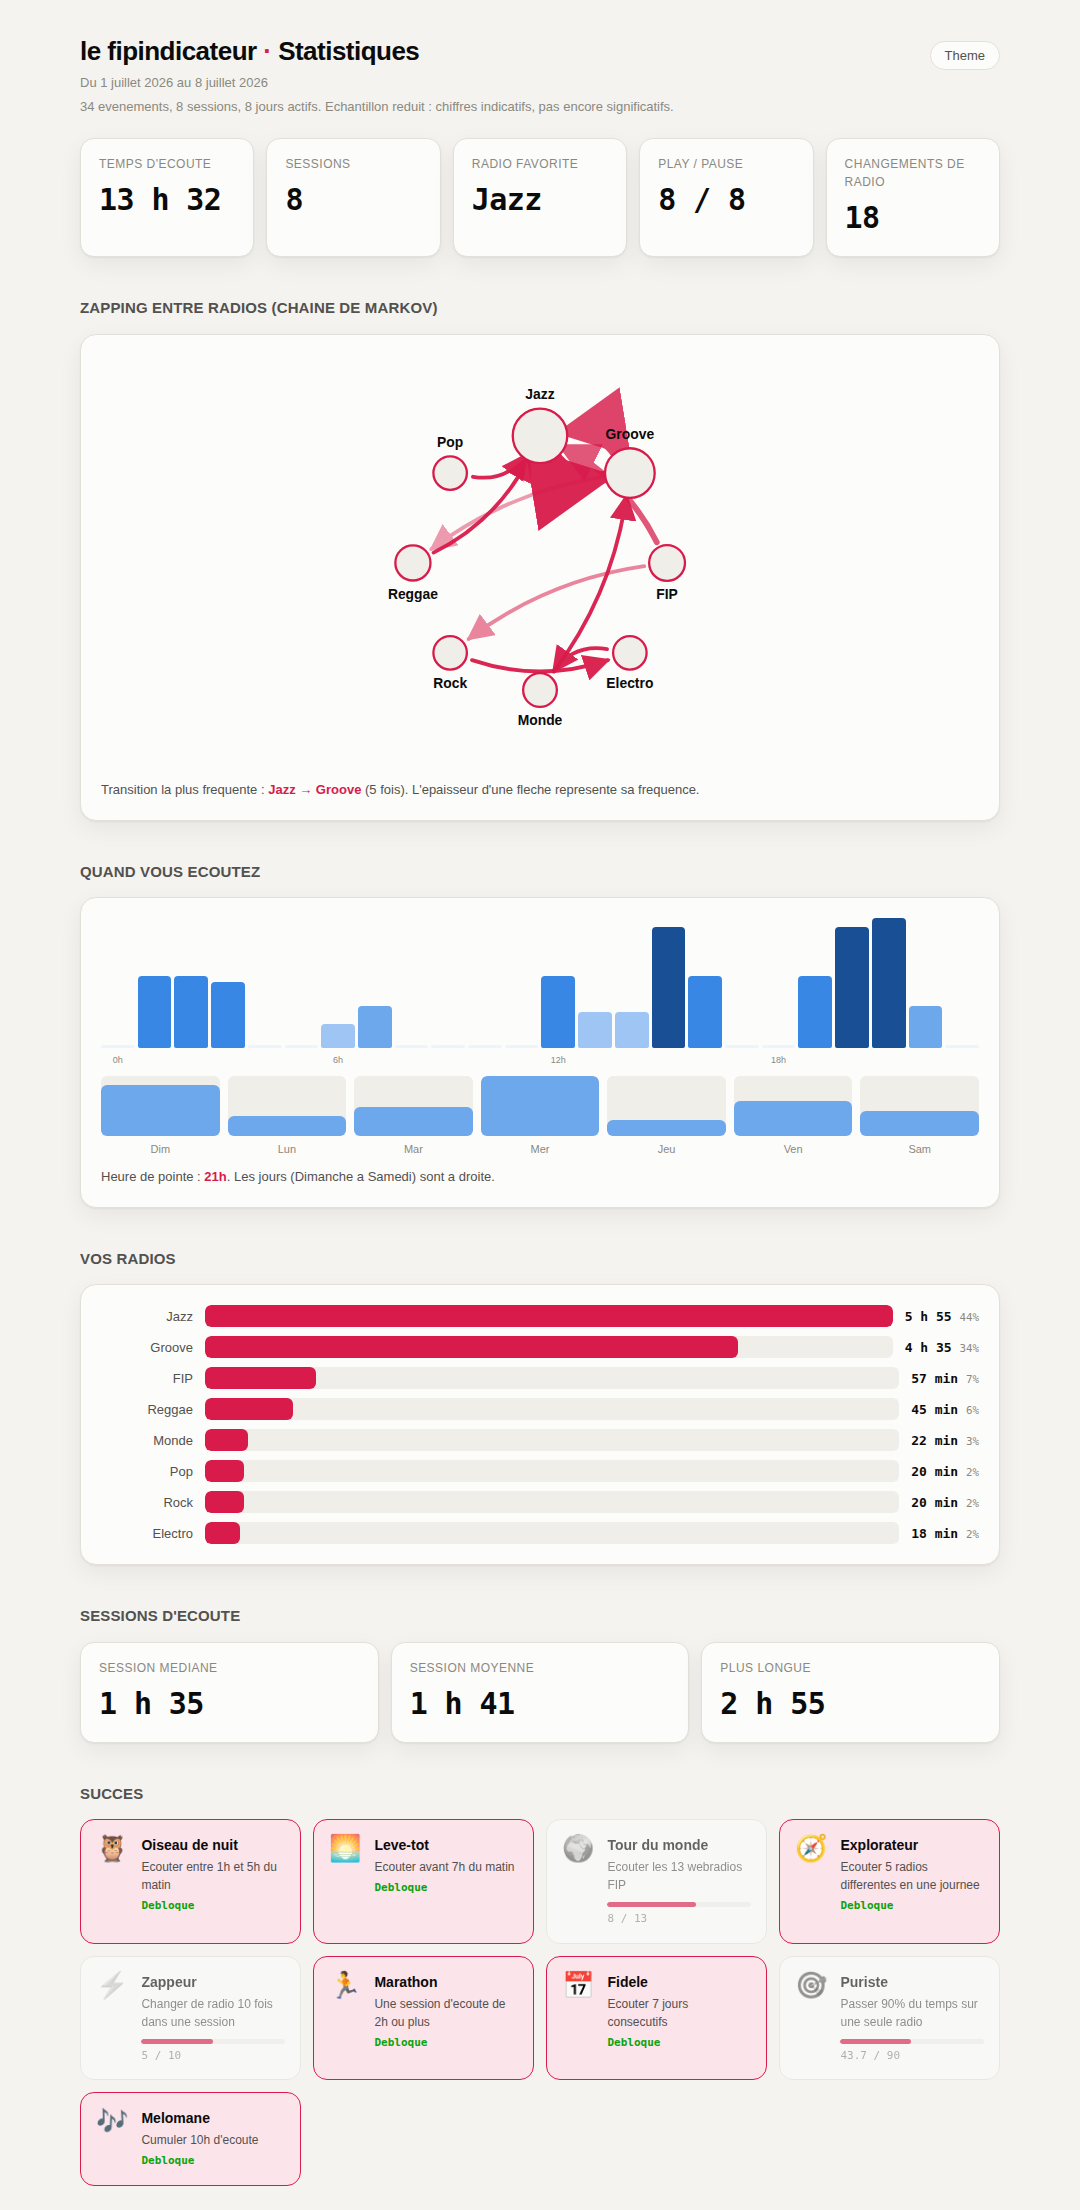
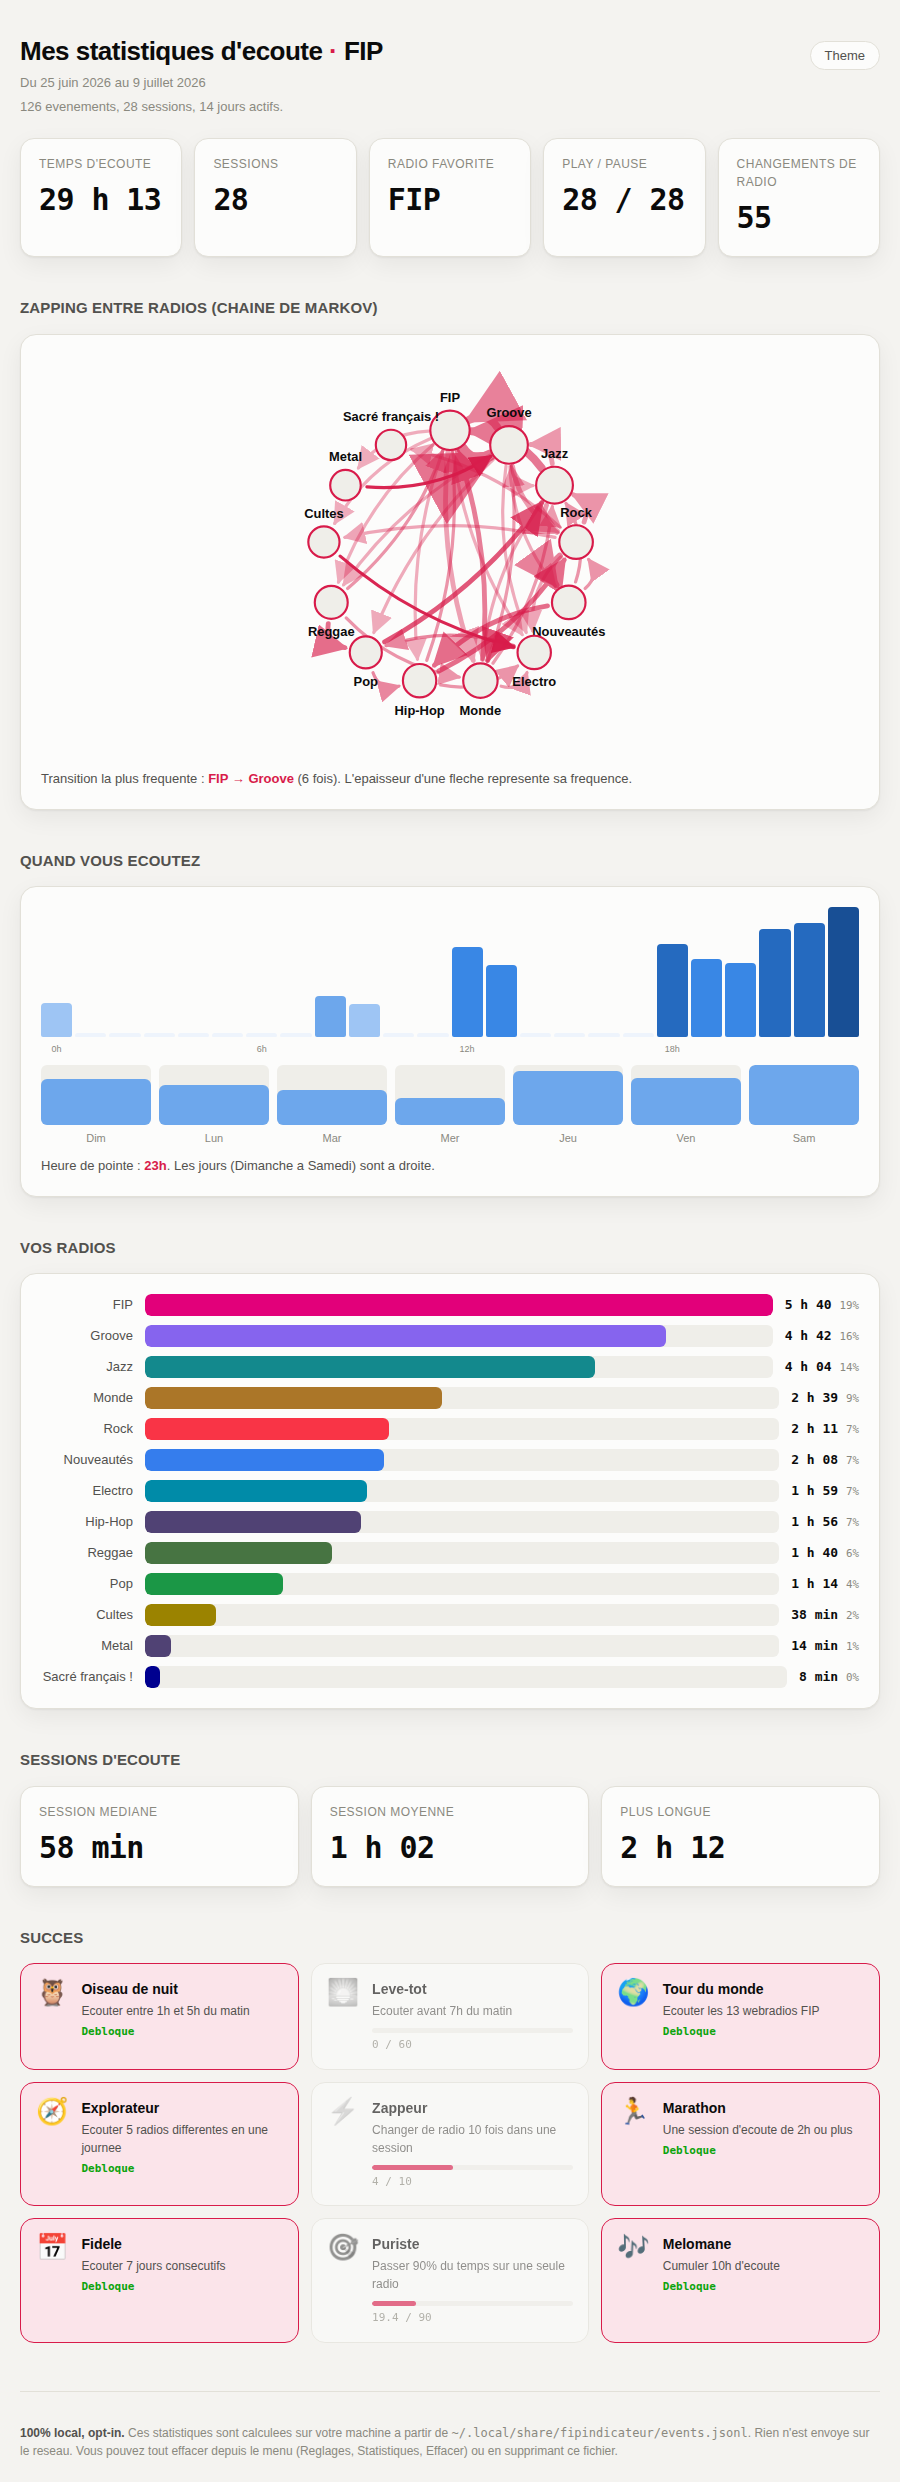
docs: README color showcase with pixel-honest transition GIF
Les couleurs de FIP: a Rock to Jazz crossfade GIF rendered from the
real icon code (72 frames, 6 fps, the exact smoothstep/16-step math),
the 13-station tint strip, and a stats report screenshot regenerated
from synthetic data only. Also fixes a stray em dash in CHANGELOG.

diff --git a/docs/gen_tint_gif.go b/docs/gen_tint_gif.go
@@ -1,0 +1,276 @@
+//go:build ignore
+
+// Command gen_tint_gif renders the tray VU glyph's station-color crossfade to
+// an animated GIF, and a strip of every station's legible tint to a PNG, using
+// the app's real icon code (internal/icon, internal/vu). Pixel-honest: no
+// screen capture, every frame is the exact bitmap the tray would draw.
+//
+// Run:  go run docs/gen_tint_gif.go
+// Writes docs/tint-transition.gif and docs/station-colors.png.
+//
+// The GIF mirrors internal/ui/animator.go exactly: a ~1s hold on Rock, the 10s
+// crossfade at 6 fps with smoothstep easing quantized to 16 steps, a ~1s hold
+// on Jazz, looping forever. The 4 VU bars move to a deterministic sum-of-sines
+// pattern (no math/rand), quantized to the 12 height levels.
+package main
+
+import (
+	"bytes"
+	"image"
+	"image/color"
+	"image/gif"
+	"image/png"
+	"log"
+	"math"
+	"os"
+	"path/filepath"
+
+	"github.com/PLNech/fipindicateur/internal/icon"
+	"github.com/PLNech/fipindicateur/internal/stations"
+	"github.com/PLNech/fipindicateur/internal/vu"
+)
+
+// These mirror internal/ui/animator.go so the doc GIF matches what ships.
+const (
+	animFPS      = 6
+	tintSteps    = 16
+	crossfadeSec = 10
+	holdSec      = 1
+)
+
+// Render geometry: the 44px glyph on a dark panel with padding, upscaled 4x
+// nearest-neighbour so it reads at README size.
+const (
+	base  = 44 // matches icon.barsSize
+	pad   = 4  // dark-panel padding around the glyph, in base pixels
+	scale = 4  // nearest-neighbour upscale factor
+)
+
+var panelBG = color.NRGBA{0x26, 0x26, 0x26, 0xFF} // matches icon.panelSurfaceDark
+
+func main() {
+	if err := writeGIF(outPath("tint-transition.gif")); err != nil {
+		log.Fatalf("tint-transition.gif: %v", err)
+	}
+	if err := writeStrip(outPath("station-colors.png")); err != nil {
+		log.Fatalf("station-colors.png: %v", err)
+	}
+}
+
+// outPath resolves a docs/ output path whether run from the repo root or from
+// within docs/.
+func outPath(name string) string {
+	if _, err := os.Stat("docs"); err == nil {
+		return filepath.Join("docs", name)
+	}
+	return name
+}
+
+// smoothstep eases 0..1 with a symmetric ease-in-out (mirrors animator.go).
+func smoothstep(t float64) float64 {
+	if t <= 0 {
+		return 0
+	}
+	if t >= 1 {
+		return 1
+	}
+	return t * t * (3 - 2*t)
+}
+
+// quantizedTintColor is the crossfade tint for progress t in 0..1, snapped to
+// one of tintSteps discrete positions, exactly as animator.quantizedTint does.
+func quantizedTintColor(from, to color.NRGBA, t float64) color.NRGBA {
+	if t < 0 {
+		t = 0
+	}
+	if t > 1 {
+		t = 1
+	}
+	step := math.Round(t * float64(tintSteps-1))
+	qt := step / float64(tintSteps-1)
+	return icon.Lerp(from, to, smoothstep(qt))
+}
+
+// barsAt derives a deterministic, music-like 4-bar pose for a global frame
+// index: sums of sines mapped into 0..vu.MaxHeight. No randomness so the GIF is
+// byte-reproducible.
+func barsAt(frame int) vu.Heights {
+	var h vu.Heights
+	f := float64(frame)
+	for i := 0; i < vu.Bars; i++ {
+		phase := float64(i) * 1.1
+		s := 0.5 + 0.45*math.Sin(0.55*f+phase)
+		s *= 0.65 + 0.35*(0.5+0.5*math.Sin(0.21*f+phase*1.7))
+		s += 0.12 * math.Sin(1.27*f+phase*0.5)
+		switch {
+		case s < 0:
+			s = 0
+		case s > 1:
+			s = 1
+		}
+		q := int(math.Round(s * float64(vu.MaxHeight)))
+		if q > vu.MaxHeight {
+			q = vu.MaxHeight
+		}
+		h[i] = uint8(q)
+	}
+	return h
+}
+
+// decodeBars renders the glyph via the real icon code and decodes it to NRGBA.
+// A non-zero tint makes every bar pixel exactly that tint at full alpha, so we
+// can read shape from alpha and paint the frame's own quantized tint.
+func decodeBars(h vu.Heights, tint color.NRGBA) *image.NRGBA {
+	img, err := png.Decode(bytes.NewReader(icon.BarsIcon(h, tint)))
+	if err != nil {
+		log.Fatalf("decode bars: %v", err)
+	}
+	if nr, ok := img.(*image.NRGBA); ok {
+		return nr
+	}
+	b := img.Bounds()
+	out := image.NewNRGBA(b)
+	for y := b.Min.Y; y < b.Max.Y; y++ {
+		for x := b.Min.X; x < b.Max.X; x++ {
+			out.Set(x, y, img.At(x, y))
+		}
+	}
+	return out
+}
+
+// writeGIF renders the hold/crossfade/hold sequence and encodes a looping GIF.
+func writeGIF(path string) error {
+	rock := icon.Legible("#f93446", true) // Rock brand ink, made legible on dark
+	jazz := icon.Legible("#13898d", true) // Jazz brand ink, made legible on dark
+
+	// Shared palette: index 0 is the panel background, then one entry per
+	// quantized crossfade step (so every frame's ink is an exact palette match).
+	pal := color.Palette{panelBG}
+	stepColor := make([]color.NRGBA, tintSteps)
+	for step := 0; step < tintSteps; step++ {
+		qt := float64(step) / float64(tintSteps-1)
+		c := icon.Lerp(rock, jazz, smoothstep(qt))
+		stepColor[step] = c
+		pal = append(pal, c)
+	}
+	stepIndex := func(step int) uint8 { return uint8(1 + step) } // palette index
+
+	holdFrames := holdSec * animFPS
+	crossFrames := crossfadeSec * animFPS
+
+	g := &gif.GIF{LoopCount: 0} // 0 == loop forever
+	frame := 0
+	add := func(step int) {
+		p := composite(decodeBars(barsAt(frame), stepColor[step]), stepIndex(step), pal)
+		g.Image = append(g.Image, p)
+		g.Delay = append(g.Delay, 100/animFPS) // centiseconds per frame
+		g.Disposal = append(g.Disposal, gif.DisposalNone)
+		frame++
+	}
+
+	for i := 0; i < holdFrames; i++ { // hold on Rock (step 0)
+		add(0)
+	}
+	for i := 0; i < crossFrames; i++ { // 10s crossfade, quantized progress
+		t := float64(i) / float64(crossFrames)
+		step := int(math.Round(t * float64(tintSteps-1)))
+		add(step)
+	}
+	for i := 0; i < holdFrames; i++ { // hold on Jazz (last step)
+		add(tintSteps - 1)
+	}
+
+	f, err := os.Create(path)
+	if err != nil {
+		return err
+	}
+	defer f.Close()
+	if err := gif.EncodeAll(f, g); err != nil {
+		return err
+	}
+	log.Printf("wrote %s (%d frames)", path, len(g.Image))
+	return nil
+}
+
+// composite paints one glyph frame onto the padded, upscaled paletted canvas:
+// background everywhere, ink pixels (alpha > 0) become inkIdx.
+func composite(bars *image.NRGBA, inkIdx uint8, pal color.Palette) *image.Paletted {
+	canvas := base + 2*pad
+	out := image.NewPaletted(image.Rect(0, 0, canvas*scale, canvas*scale), pal)
+	// out is zero-filled == palette index 0 == panel background.
+	for by := 0; by < base; by++ {
+		for bx := 0; bx < base; bx++ {
+			if bars.NRGBAAt(bx, by).A == 0 {
+				continue
+			}
+			blit(out, (pad+bx)*scale, (pad+by)*scale, inkIdx)
+		}
+	}
+	return out
+}
+
+// blit fills a scale x scale block with the given palette index.
+func blit(p *image.Paletted, x0, y0 int, idx uint8) {
+	for dy := 0; dy < scale; dy++ {
+		for dx := 0; dx < scale; dx++ {
+			p.SetColorIndex(x0+dx, y0+dy, idx)
+		}
+	}
+}
+
+// writeStrip renders every station's legible tint over one fixed VU pose, side
+// by side on the dark panel, upscaled 4x.
+func writeStrip(path string) error {
+	pose := vu.Heights{7, 10, 5, 9} // one pleasant fixed pose
+	const gap = 6                   // base pixels of panel between glyphs
+
+	tile := base
+	stripW := (len(stations.All)*tile + (len(stations.All)+1)*gap) * scale
+	stripH := (tile + 2*gap) * scale
+	out := image.NewNRGBA(image.Rect(0, 0, stripW, stripH))
+	fill(out, panelBG)
+
+	for n, s := range stations.All {
+		tint := icon.Legible(s.Color, true)
+		bars := decodeBars(pose, tint)
+		ox := (gap + n*(tile+gap)) * scale
+		oy := gap * scale
+		for by := 0; by < base; by++ {
+			for bx := 0; bx < base; bx++ {
+				px := bars.NRGBAAt(bx, by)
+				if px.A == 0 {
+					continue
+				}
+				blitNRGBA(out, ox+bx*scale, oy+by*scale, tint)
+			}
+		}
+	}
+
+	f, err := os.Create(path)
+	if err != nil {
+		return err
+	}
+	defer f.Close()
+	if err := png.Encode(f, out); err != nil {
+		return err
+	}
+	log.Printf("wrote %s (%d stations)", path, len(stations.All))
+	return nil
+}
+
+func fill(img *image.NRGBA, c color.NRGBA) {
+	b := img.Bounds()
+	for y := b.Min.Y; y < b.Max.Y; y++ {
+		for x := b.Min.X; x < b.Max.X; x++ {
+			img.SetNRGBA(x, y, c)
+		}
+	}
+}
+
+func blitNRGBA(img *image.NRGBA, x0, y0 int, c color.NRGBA) {
+	for dy := 0; dy < scale; dy++ {
+		for dx := 0; dx < scale; dx++ {
+			img.SetNRGBA(x0+dx, y0+dy, c)
+		}
+	}
+}

diff --git a/README.md b/README.md
@@ -75,6 +75,22 @@ are kept buildable and planned.
 
 ![Graphe de Markov, thème sombre](docs/stats-markov-dark.png)
 
+## Les couleurs de FIP
+
+Every webradio wears its own official color, lifted straight from
+radiofrance.fr. The tray VU glyph is inked in whatever station you're on, and
+when you zap it crossfades to the next color over 10 seconds (6 fps, smoothstep
+easing, quantized to 16 steps so the icon cache stays tiny). Each hue is nudged
+just enough to stay legible on your panel (3:1 contrast, hue kept), and the same
+palette is reused verbatim by the local stats report's per-station bars, so one
+set of colors runs from tray to report.
+
+![Le glyphe passe de Rock à Jazz en fondu](docs/tint-transition.gif)
+
+The 13 stations, each in its panel-legible tint:
+
+![Les 13 webradios FIP, chacune dans sa couleur officielle](docs/station-colors.png)
+
 ## Install
 
 Runtime needs **libmpv** (the app links libmpv via cgo, and mpv plays the

diff --git a/CHANGELOG.md b/CHANGELOG.md
@@ -1,6 +1,6 @@
 # Changelog
 
-## Sprint 1 — 2026-07-10 · La radio en couleurs
+## Sprint 1 · 2026-07-10 · La radio en couleurs
 
 ### Added
 - Report bars wear each webradio's official brand color, sourced from